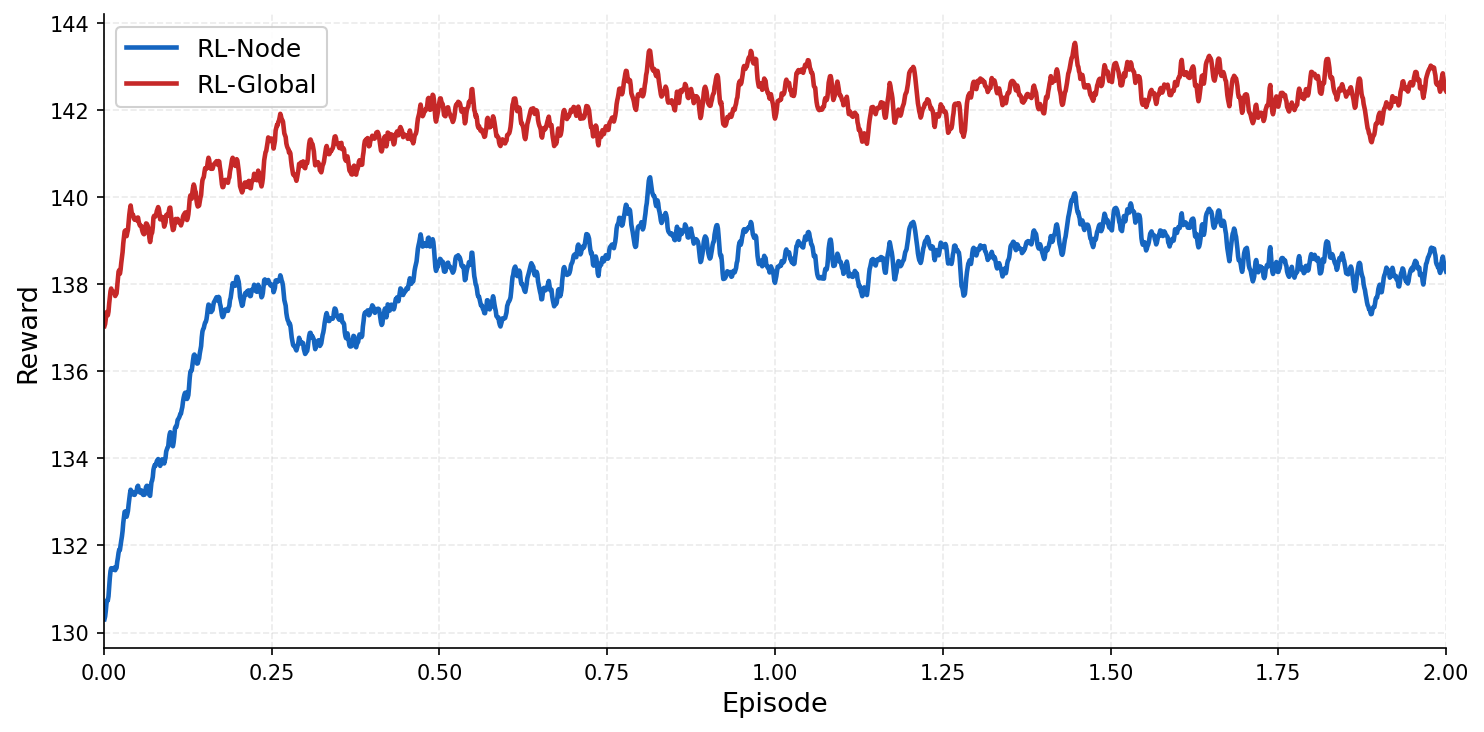
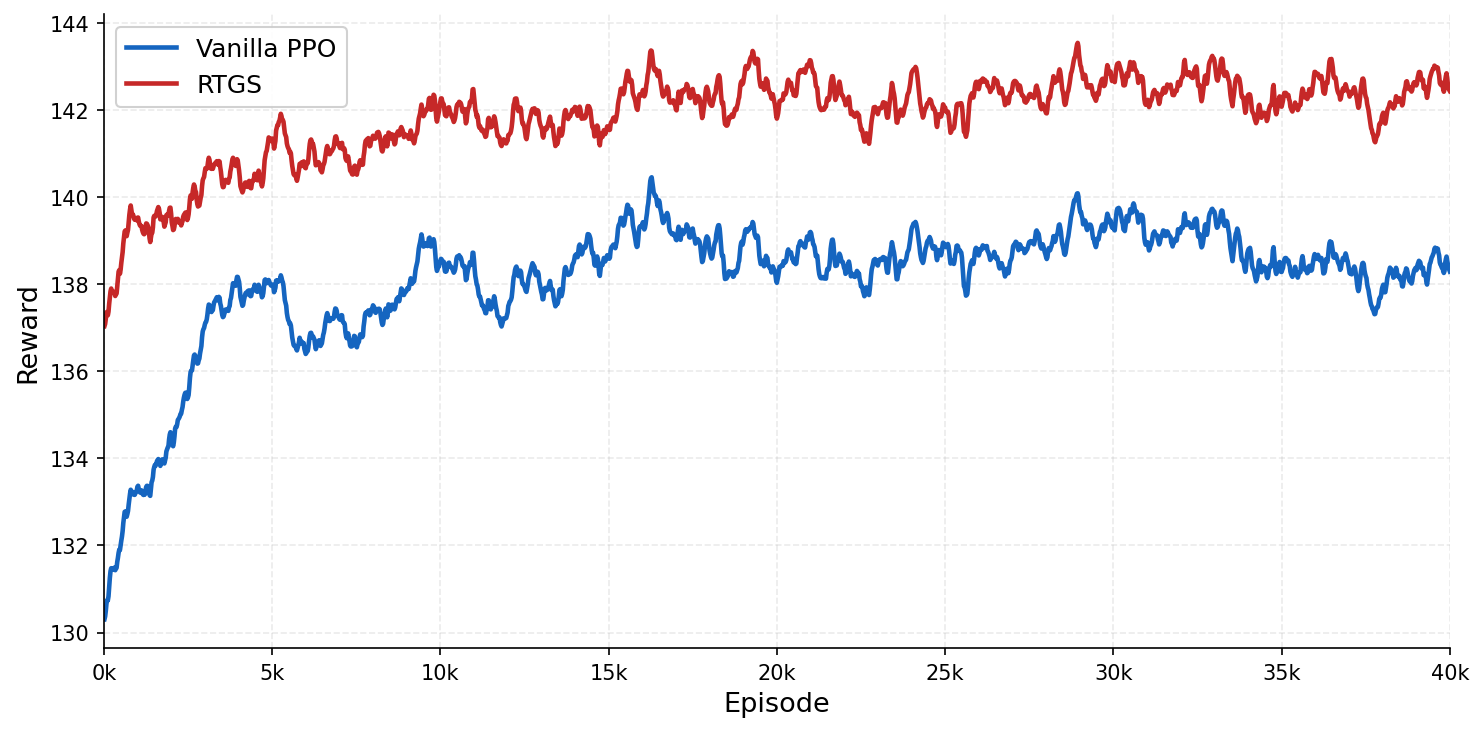
add - cyt: v7 fig.

diff --git a/plot_training.py b/plot_training.py
@@ -3,6 +3,7 @@ import numpy as np
 import matplotlib
 import matplotlib.pyplot as plt
 
+# ====== 基本风格设置 ======
 matplotlib.rcParams['font.family'] = 'DejaVu Sans'
 matplotlib.rcParams['axes.spines.top'] = False
 matplotlib.rcParams['axes.spines.right'] = False
@@ -16,39 +17,78 @@ def ema_smooth(values, alpha=0.05):
         smoothed[i] = alpha * values[i] + (1 - alpha) * smoothed[i - 1]
     return smoothed
 
+
+# ====== 配置 ======
 results_dir = 'results'
 seeds = [0, 1, 2, 3, 4]
 methods = ['rl_node', 'rl_global']
-colors = {'rl_node': '#1565C0', 'rl_global': '#C62828'}
-labels = {'rl_node': 'RL-Node', 'rl_global': 'RL-Global'}
 
+colors = {
+    'rl_node': '#1565C0',
+    'rl_global': '#C62828'
+}
+
+labels = {
+    'rl_node': 'Vanilla PPO',
+    'rl_global': 'RTGS'
+}
+
+# ====== 绘图 ======
 fig, ax = plt.subplots(figsize=(10, 5))
 
 for method in methods:
     all_rewards = []
     steps = None
+
     for seed in seeds:
         path = f'{results_dir}/{method}_seed{seed}_trainlog.json'
         with open(path) as f:
             data = json.load(f)
+
         s = [d['step'] for d in data]
         r = [d['reward'] for d in data]
+
         if steps is None:
             steps = np.array(s)
+
         all_rewards.append(r)
 
     all_rewards = np.array(all_rewards)
+
+    # 多 seed 平均
     mean_r = all_rewards.mean(axis=0)
+
+    # 平滑
     smoothed = ema_smooth(mean_r, alpha=0.05)
 
-    ax.plot(steps / 1e6, smoothed, color=colors[method], linewidth=2.2, label=labels[method])
+    # ⚠ 不改数据（保持曲线不变）
+    ax.plot(steps / 1e6, smoothed,
+            color=colors[method],
+            linewidth=2.2,
+            label=labels[method])
 
+
+# ====== 坐标轴设置 ======
 ax.set_xlabel('Episode', fontsize=13)
 ax.set_ylabel('Reward', fontsize=13)
+
+# 原始范围
+ax.set_xlim(0, 2.0)
+
+# ====== ⭐ 关键：只修改横坐标显示 ======
+num_ticks = 9  # 0,5k,...,40k → 共9个点
+xticks = np.linspace(0, 2.0, num_ticks)
+xtick_labels = [f'{int(x)}k' for x in np.linspace(0, 40, num_ticks)]
+
+ax.set_xticks(xticks)
+ax.set_xticklabels(xtick_labels)
+
+# ====== 其他美化 ======
 ax.legend(fontsize=12, framealpha=0.9)
 ax.grid(True, alpha=0.25, linestyle='--')
-ax.set_xlim(0, 2.0)
+
 plt.tight_layout()
 plt.savefig('training_reward_curve.png', dpi=150, bbox_inches='tight')
 print('Saved: training_reward_curve.png')
+
 plt.show()
